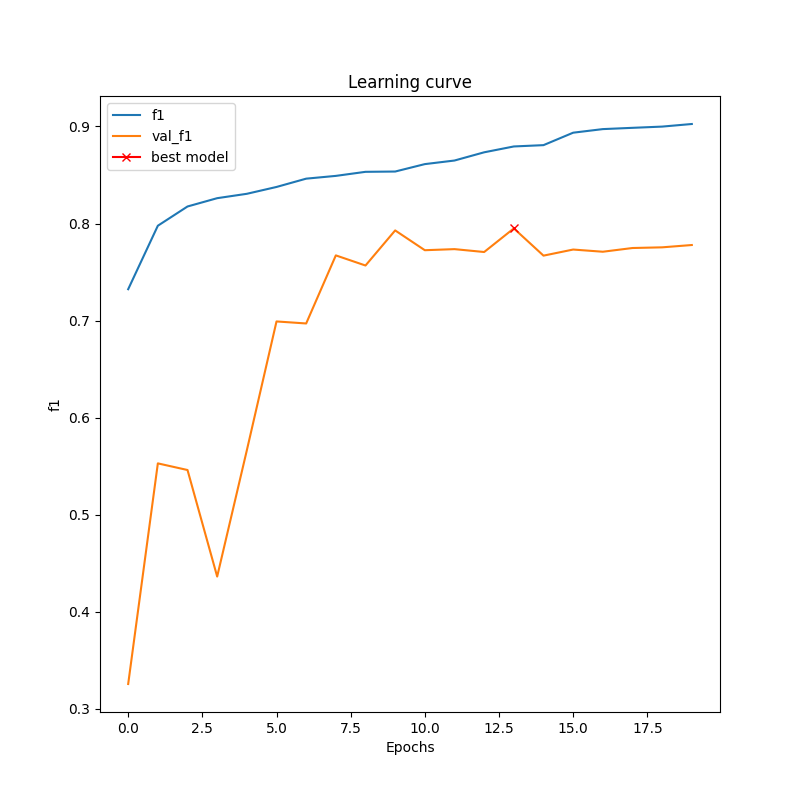
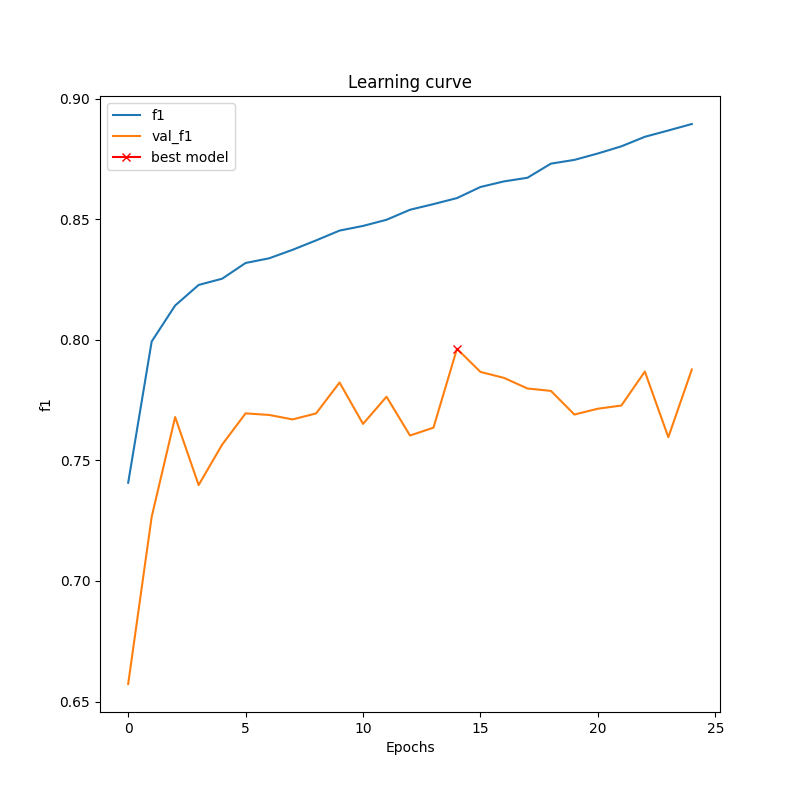
11-4-2020

diff --git a/Train.py b/Train.py
@@ -123,23 +123,23 @@ y_train = np.array(y_train)
 X_test = np.array(X_test) 
 y_test = np.array(y_test) 
 
-input_img = Input((None, None, 3), name='img')
+input_img = Input((256, 256, 3), name='img')
 #from tensorflow.keras.utils.vis_utils import plot_model
 
 if config['Model'] == "UNETMOD":
     print("Loading UNETMOD Model")
     model = get_unet_mod(input_img, n_filters=16, dropout=0.1, batchnorm=True)  #32
     # model.compile(optimizer=Adam(1e-5), loss=jaccard_distance_loss, metrics=[iou,dice_coef])
-    model.compile(optimizer=Adam(amsgrad=True), loss=dice_loss, metrics=["accuracy", dice_coef, f1])
+    model.compile(optimizer=Adam(amsgrad=True), loss=jaccard_distance_loss, metrics=["accuracy", dice_coef, f1])
     print("Printing Model Summary")
     print (model.summary())
     tf.keras.utils.plot_model(model, './Code/network/unetmod/unet_plot.png')
 
 if config['Model'] == "UNET":
     print("Loading UNET Model")
-    model = get_unet(input_img, n_filters=32, dropout=0.05, batchnorm=True)  
+    model = get_unet(input_img, n_filters=16, dropout=0.1, batchnorm=True)  
     # model.compile(optimizer=Adam(1e-5), loss=jaccard_distance_loss, metrics=[iou,dice_coef])
-    model.compile(optimizer=Adam(), loss="binary_crossentropy", metrics=["accuracy", dice_coef, f1])
+    model.compile(optimizer=Adam(amsgrad=True), loss=jaccard_distance_loss, metrics=["accuracy", dice_coef, f1])
     print("Printing Model Summary")
     print (model.summary())
     tf.keras.utils.plot_model(model, './Code/network/unet/unet_plot.png')
@@ -151,7 +151,7 @@ if config['Model'] == "SEGNET":
         #kernel=3,
         #pool_size=(2, 2),
         #output_mode="softmax")
-    model.compile(optimizer=Adam(), loss="binary_crossentropy", metrics=["accuracy", dice_coef, f1])
+    model.compile(optimizer=Adam(amsgrad=True), loss=jaccard_distance_loss, metrics=["accuracy", dice_coef, f1])
     print("Printing Model Summary")
     print (model.summary())
     tf.keras.utils.plot_model(model, './Code/network/segnet/segnet_plot.png')
@@ -160,7 +160,7 @@ if config['Model'] == "DEEPLAB":
     print("Loading DEEPLAB Model")
     model = Deeplabv3(weights=None, input_tensor=None, input_shape=(patch_height, patch_width, 3), classes=1, backbone='xception',
                OS=16, alpha=1., activation='sigmoid')
-    model.compile(optimizer=tf.keras.optimizers.Adam(), loss="binary_crossentropy", metrics=["accuracy", dice_coef, f1])
+    model.compile(optimizer=tf.keras.optimizers.Adam(amsgrad=True), loss=jaccard_distance_loss, metrics=["accuracy", dice_coef, f1])
     #plot_model(model, to_file='./Code/network/deeplab/deeplab_plot.png', show_shapes=True, show_layer_names=True)
  
 print("Compiling Model")
@@ -189,6 +189,7 @@ print(X_test.shape, y_test.shape)
 results = model.fit(X_train, y_train, batch_size=config['Batch'], verbose=1, epochs=Epochs, callbacks=callbacks,\
                     validation_data=(X_test, y_test))
 
+print(model.evaluate(X_test, y_test, verbose=1))
           
 plt.figure(figsize=(8, 8))
 plt.title("Learning curve")

diff --git a/Code/network/unetmod/u_net_mod.py b/Code/network/unetmod/u_net_mod.py
@@ -4,7 +4,7 @@ import random
 import tensorflow as tf
 from keras import backend as K
 from keras.models import Model, load_model
-from keras.layers import Input, BatchNormalization, Activation, Dense, Dropout, ZeroPadding2D, AveragePooling2D
+from keras.layers import Input, BatchNormalization, Activation, Dense, Dropout, ZeroPadding2D, AveragePooling2D, GlobalAveragePooling2D, multiply
 from keras.layers.core import Lambda, RepeatVector, Reshape
 from keras.layers.convolutional import Conv2D, Conv2DTranspose
 from keras.layers.pooling import MaxPooling2D, GlobalMaxPool2D
@@ -61,8 +61,6 @@ def get_unet_mod(input_img, n_filters = 16, dropout = 0.1, batchnorm = True):
     p1 = MaxPooling2D((2, 2))(c1)
     p1 = Dropout(dropout)(p1)
     
-    #p1 = aspp_block(p1,num_filters=256,rate_scale=1,output_stride=2,input_shape=(256,256,3))
-    
     skip = Conv2D(filters = n_filters * 2, kernel_size = (3, 3),\
               kernel_initializer = 'he_normal', padding = 'same')(p1)
     c2 = conv2d_block(skip, n_filters * 2, kernel_size = 3, batchnorm = batchnorm)
@@ -84,9 +82,12 @@ def get_unet_mod(input_img, n_filters = 16, dropout = 0.1, batchnorm = True):
     p4 = MaxPooling2D((2, 2))(c4)
     p4 = Dropout(dropout)(p4)
     
-    c5 = conv2d_block(p4, n_filters = n_filters * 16, kernel_size = 3, batchnorm = batchnorm)
+    skip = Conv2D(filters = n_filters * 16, kernel_size = (3, 3),\
+              kernel_initializer = 'he_normal', padding = 'same')(p4)
+    c5 = conv2d_block(skip, n_filters = n_filters * 16, kernel_size = 3, batchnorm = batchnorm)
     
-    """"""
+    c5 = aspp_block(c5,num_filters=256,rate_scale=1,output_stride=16,input_shape=(256,256,3))
+    
     # Expansive Path
     
     u6 = Conv2DTranspose(n_filters * 8, (3, 3), strides = (2, 2), padding = 'same')(c5)
